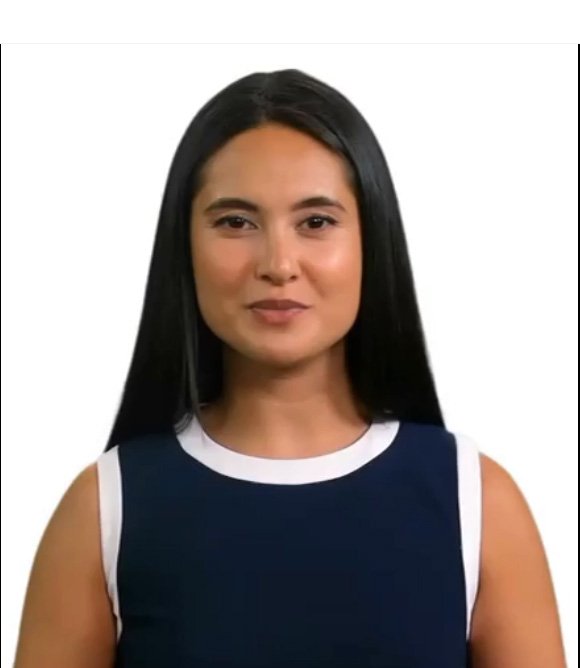
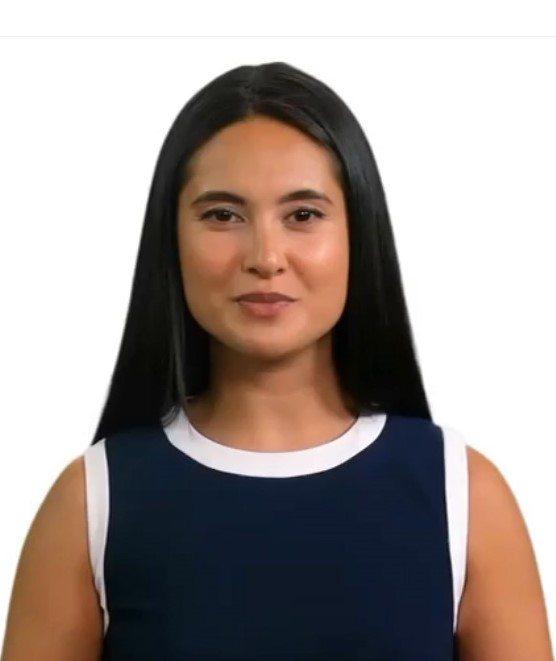
kil

diff --git a/templates/chatbot/index.html b/templates/chatbot/index.html
@@ -1258,7 +1258,10 @@ main#msger-chat {
             <source src="{% static 'chat/assets/images/course-video.mp4' %}" type="video/mp4" />
         </video>
 
-        <img src="{% static 'chat/assets/images/avai.jpg' %}" alt="Placeholder Image" id="bg-image" class="fallback-image">
+        <div class="chatbot">
+            <img src="{% static 'chat/assets/images/Picture1.png' %}" alt="Placeholder Image" id="bg-image" class="fallback-image" 
+            style="width: 100%; height:640px;">
+        </div>
     </div>
         <div class="video-overlay header-text">
             <div class="caption fully-chats">
